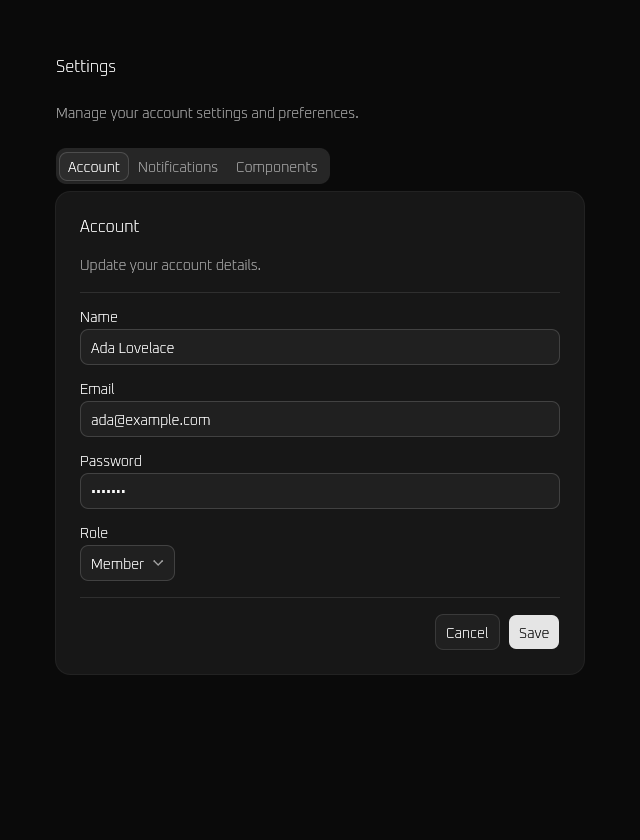
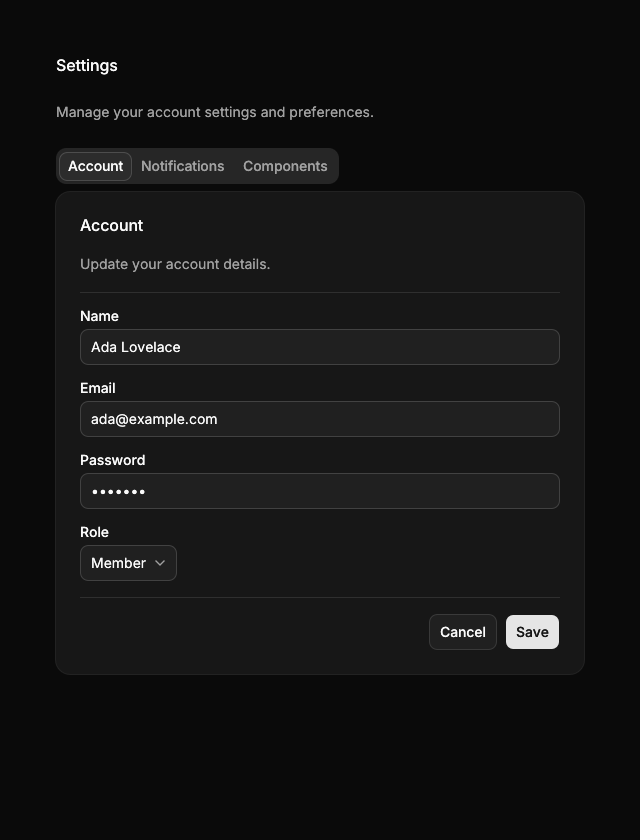
test: docs/settings-screen.png is a snapshot, so it cannot go stale
The README's first image was a hand-made capture from before 0.4: it
still showed the 0.3 Oxanium font, while every 0.4 build renders the
settings page in Inter. Nothing regenerated it, so it drifted silently.
readme_settings_screen now renders the Account tab as the settings
example starts (vega, dark, radius 10) and snapshots it into docs/, the
way gallery_default_preset keeps docs/gallery-screen.png; a change to
the page now fails the test until the image is updated.

The harness that paints the page colour moves from snapshot_with_themes
into common::page_harness, which both use; the existing snapshots are
unchanged.

diff --git a/crates/shadcn-egui/tests/common/mod.rs b/crates/shadcn-egui/tests/common/mod.rs
@@ -45,6 +45,30 @@ pub fn snapshot_all_with(
     snapshot_with_themes(name, size, themes(), ui_fn, prepare);
 }
 
+/// `ui_fn` on a page of `theme`'s background colour, after one run.
+pub fn page_harness<'a>(
+    size: egui::Vec2,
+    theme: Theme,
+    mut ui_fn: impl FnMut(&mut egui::Ui) + 'a,
+) -> Harness<'a> {
+    let bg = theme.palette.background;
+    let mut h = Harness::builder().with_size(size).build_ui(move |ui| {
+        theme.apply(ui.ctx());
+        // kittest wraps the ui in an 8px outer margin; paint the page
+        // colour under all of it, so no band of another colour shows.
+        let page = ui.ctx().viewport_rect();
+        ui.ctx()
+            .layer_painter(egui::LayerId::background())
+            .rect_filled(page, 0.0, bg);
+        egui::Frame::new().fill(bg).inner_margin(16).show(ui, |ui| {
+            ui.set_min_size(ui.available_size());
+            ui_fn(ui);
+        });
+    });
+    h.run();
+    h
+}
+
 /// One snapshot per `(suffix, theme)`: `{name}_{suffix}.png`.
 pub fn snapshot_with_themes(
     name: &str,
@@ -56,21 +80,7 @@ pub fn snapshot_with_themes(
     // One result set for all harnesses, so a failing style does not abort the rest.
     let mut results = SnapshotResults::new();
     for (suffix, theme) in themes {
-        let bg = theme.palette.background;
-        let mut h = Harness::builder().with_size(size).build_ui(|ui| {
-            theme.apply(ui.ctx());
-            // kittest wraps the ui in an 8px outer margin; paint the page
-            // colour under all of it, so no band of another colour shows.
-            let page = ui.ctx().viewport_rect();
-            ui.ctx()
-                .layer_painter(egui::LayerId::background())
-                .rect_filled(page, 0.0, bg);
-            egui::Frame::new().fill(bg).inner_margin(16).show(ui, |ui| {
-                ui.set_min_size(ui.available_size());
-                ui_fn(ui);
-            });
-        });
-        h.run();
+        let mut h = page_harness(size, theme, &mut ui_fn);
         prepare(&mut h);
         h.snapshot(format!("{name}_{suffix}"));
         results.extend(h.take_snapshot_results());

diff --git a/crates/shadcn-egui/tests/settings_snapshot.rs b/crates/shadcn-egui/tests/settings_snapshot.rs
@@ -2,7 +2,7 @@ mod common;
 
 use egui::accesskit::Role;
 use egui_kittest::kittest::Queryable;
-use egui_kittest::Harness;
+use egui_kittest::{Harness, SnapshotOptions};
 use shadcn_egui::reference::{settings_ui, SettingsState};
 use shadcn_egui::style::Style;
 use shadcn_egui::{Palette, Theme};
@@ -40,6 +40,19 @@ fn settings_notifications_tab() {
 #[test]
 fn settings_components_tab() {
     snapshot_tab(2, "settings_components");
+}
+
+/// `docs/settings-screen.png`, the README's first image: the Account tab as
+/// `cargo run --example settings` starts (vega, dark, radius 10).
+#[test]
+fn readme_settings_screen() {
+    let theme = Theme::new(Style::vega(), Palette::dark(), 10.0);
+    let mut state = state(0);
+    let mut h = common::page_harness(egui::vec2(640.0, 840.0), theme, move |ui| {
+        settings_ui(ui, &mut state)
+    });
+    let docs = concat!(env!("CARGO_MANIFEST_DIR"), "/../../docs");
+    h.snapshot_options("settings-screen", &SnapshotOptions::new().output_path(docs));
 }
 
 #[test]
